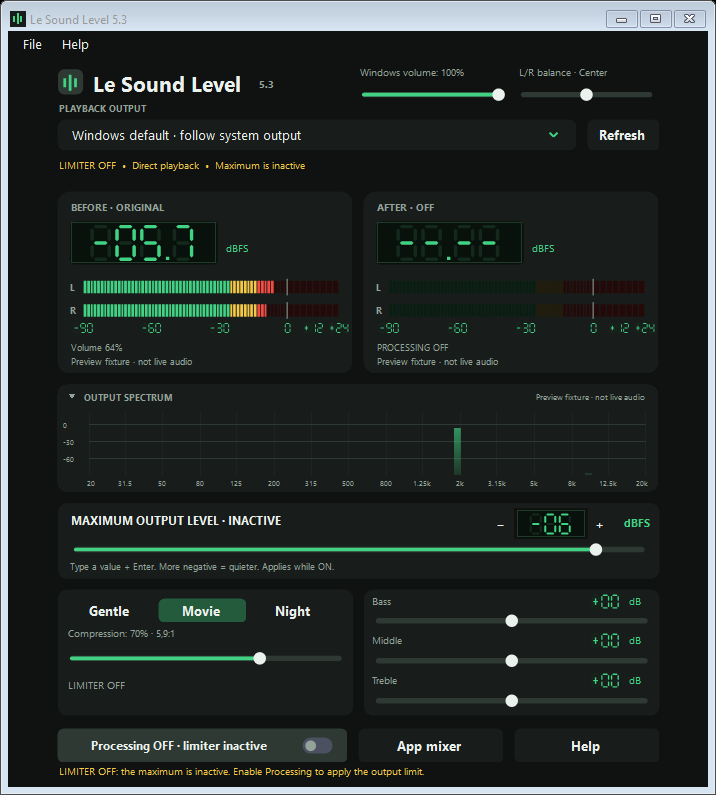
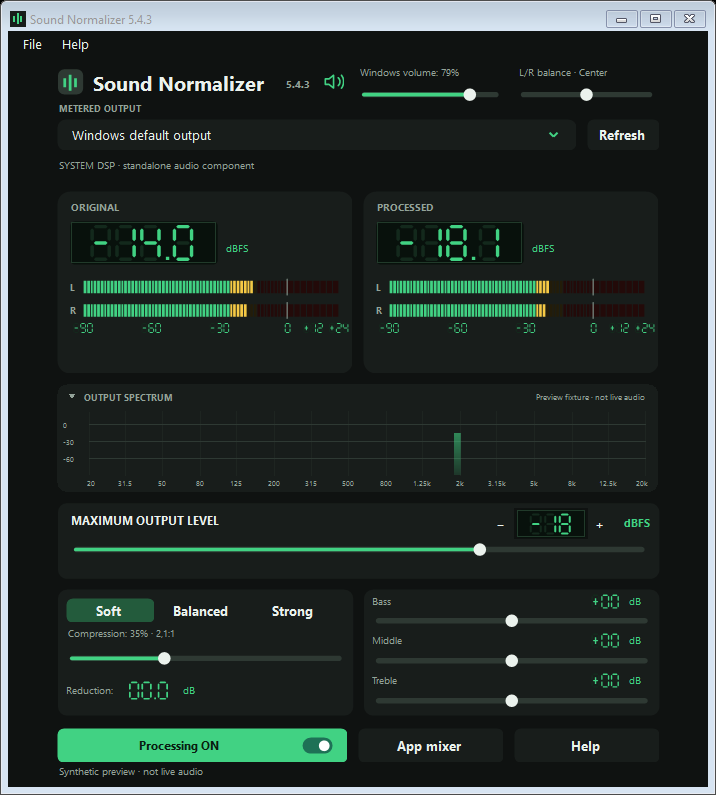
Rename product to Sound Normalizer and preserve installation identity

diff --git a/README.md b/README.md
@@ -1,10 +1,10 @@
-# Le Sound Level — Windows Audio Control
+# Sound Normalizer — Windows Audio Control
 
 ![Development dashboard preview, synthetic signal](images/dashboard-preview.png)
 
-The featured image is a version 5.3 development preview with synthetic meter and spectrum signals, not a live playback measurement.
+The featured image is a version 5.4.3 development preview with synthetic meter and spectrum signals, not a live playback measurement.
 
-A quiet dialogue scene followed by a loud effect can make a comfortable movie volume difficult to maintain. Le Sound Level brings a configurable digital output ceiling, compression presets and tone controls into a Windows audio workspace.
+A quiet dialogue scene followed by a loud effect can make a comfortable movie volume difficult to maintain. Sound Normalizer brings a configurable digital output ceiling, compression presets and tone controls into a Windows audio workspace.
 
 The interface lets the user inspect before-and-after levels, adjust the listening setup and review supported input devices. It controls digital sample levels; it is not a calibrated measurement or guarantee of physical sound pressure.
 
@@ -56,14 +56,16 @@ Version 5.4.1 simplifies the interface: purpose-focused About; Soft, Balanced an
 
 ## Current availability
 
-Le Sound Level is a development build, not a broadly certified public release. The repository presents the product and its preview material; no public binary download is currently published here.
+Sound Normalizer is a development build, not a broadly certified public release. The repository presents the product and its preview material; no public binary download is currently published here.
 
 Version-specific tests and private engineering material provide the appropriate detail for installation and compatibility work. A native processing lookahead value should not be read as a measurement of total playback latency.
 
 ---
 
-Private code: [le-sound-level](https://github.com/logicencoder/le-sound-level)
+Private code: [sound-normalizer](https://github.com/logicencoder/sound-normalizer)
 
 **[Logic Encoder](https://logicencoder.com)** · [GitHub](https://github.com/logicencoder) · [Contact](https://logicencoder.com/contact/)
 
 Version 5.4.2 reduces About to one sentence and adds a selected-output icon beside the version: green speaker for non-Bluetooth output, blue Bluetooth for Bluetooth, neutral when unavailable. Connecting a device alone does not change the icon unless the output route follows it. The current HDMI route was verified live; Bluetooth transitions were checked with isolated fixtures, not physical pairing.
+
+Version 5.4.3 adopts the name **Sound Normalizer** across the application, installer and repositories. Existing settings and audio behavior are preserved. Older linked input screenshots are historical fixtures and may show the former name.
